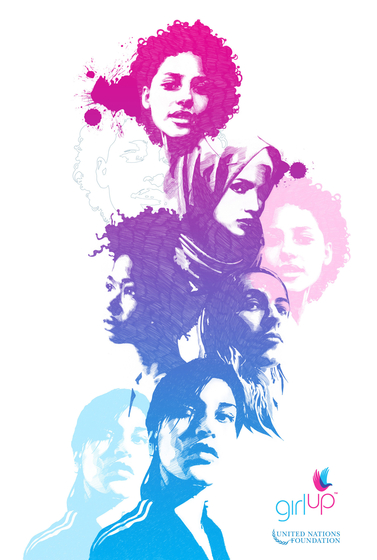
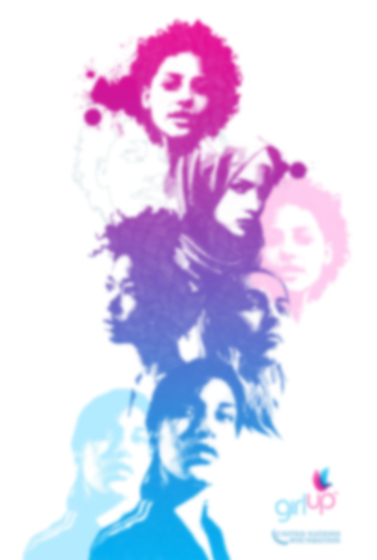
Reduce lag and add support for IE(dge)
Blur now server-side
Sidebar horizontal sizing fixed on IE(dge)

diff --git a/assets/css/4-pages/_index.sass b/assets/css/4-pages/_index.sass
@@ -29,9 +29,15 @@ body
   overflow-x: hidden
   position: absolute
   right: 0
-  background: rgba(255,255,255,0.5)
+  background:
+    color: rgba(255,255,255,0.5)
+    image: url(../img/background.jpg)
+    size: cover
+    position: center
+    repeat: no-repeat
+    attachment: fixed
 
-  &::before
+  /**&::before
     content: ""
     position: fixed
     left: 0
@@ -44,7 +50,7 @@ body
       position: center
     //width: 100%
     height: 100%
-    +filter(blur(5px))
+    //+filter(blur(5px))*/
 
 #sidebar-activator
   +position(fixed, 0 null null 0)

diff --git a/assets/css/4-pages/_sidenav.sass b/assets/css/4-pages/_sidenav.sass
@@ -58,6 +58,8 @@
       position: absolute
       top: 0
       bottom: 0
+      left: 0
+      right: 0
       li a
         background: $silver
         &.active-nav
